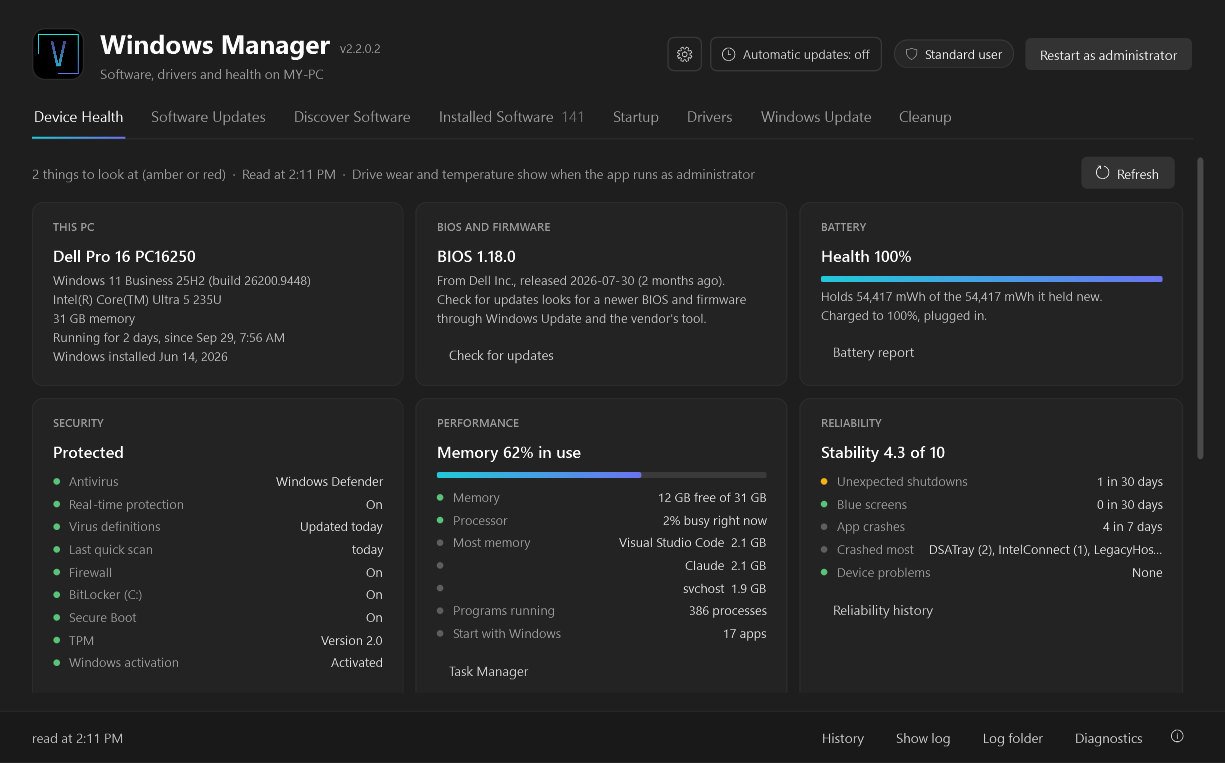
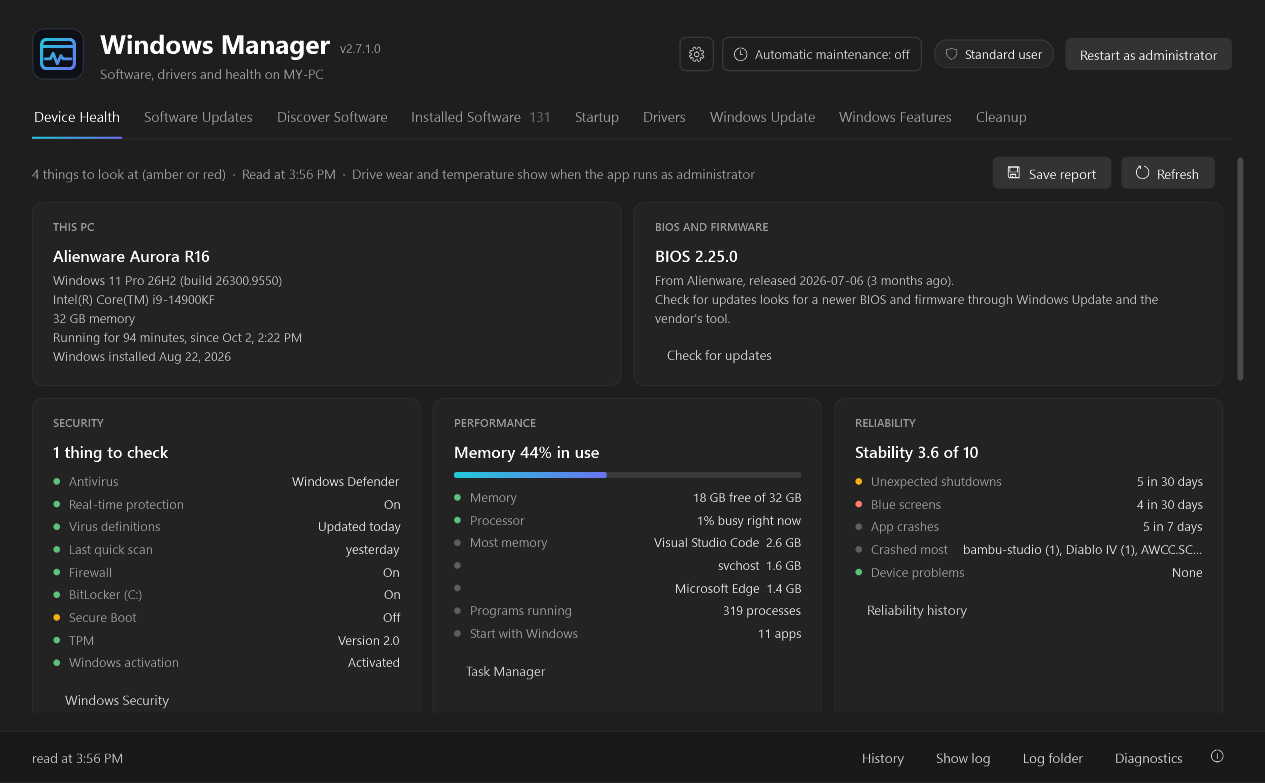
README: new screenshots of every main screen
Retaken from v2.7.1.0 (new icon, nine tabs, Automatic maintenance), and added
Windows Update, Windows Features and the Automatic maintenance panel.

diff --git a/README.md b/README.md
@@ -14,21 +14,35 @@ glance.
 
 ![Device Health](docs/screenshots/01-device-health.png)
 
-**Installed Software**, sorted by size, with uninstall on every row.
+**Installed Software**: every app on the PC, with its size, its source and uninstall on every row.
 
 ![Installed Software](docs/screenshots/02-installed-software.png)
-
-**Drivers**: the PC's vendor tool, and driver updates from Windows Update, the vendor, NVIDIA and AMD.
-
-![Drivers](docs/screenshots/03-drivers.png)
 
 **Startup**: apps that start when you sign in, turned on or off the way Task Manager does it.
 
 ![Startup](docs/screenshots/04-startup.png)
 
+**Drivers**: the PC's vendor tool, every device's driver (to roll back, reinstall or remove), and driver updates from
+Windows Update, the vendor, NVIDIA and AMD.
+
+![Drivers](docs/screenshots/03-drivers.png)
+
+**Windows Update**: Windows' own updates, ready to install, and what was installed recently.
+
+![Windows Update](docs/screenshots/06-windows-update.png)
+
+**Windows Features**: Windows' optional features, grouped as Windows shows them, turned on or off.
+
+![Windows Features](docs/screenshots/07-windows-features.png)
+
 **Cleanup**: leftover files measured and cleaned, plus large files and the biggest apps.
 
 ![Cleanup](docs/screenshots/05-cleanup.png)
+
+**Automatic maintenance**: a schedule that updates apps and Windows, cleans up and checks the PC's health, each job set
+to off, tell me, or do it.
+
+![Automatic maintenance](docs/screenshots/08-automatic-maintenance.png)
 
 ## Using it
 
